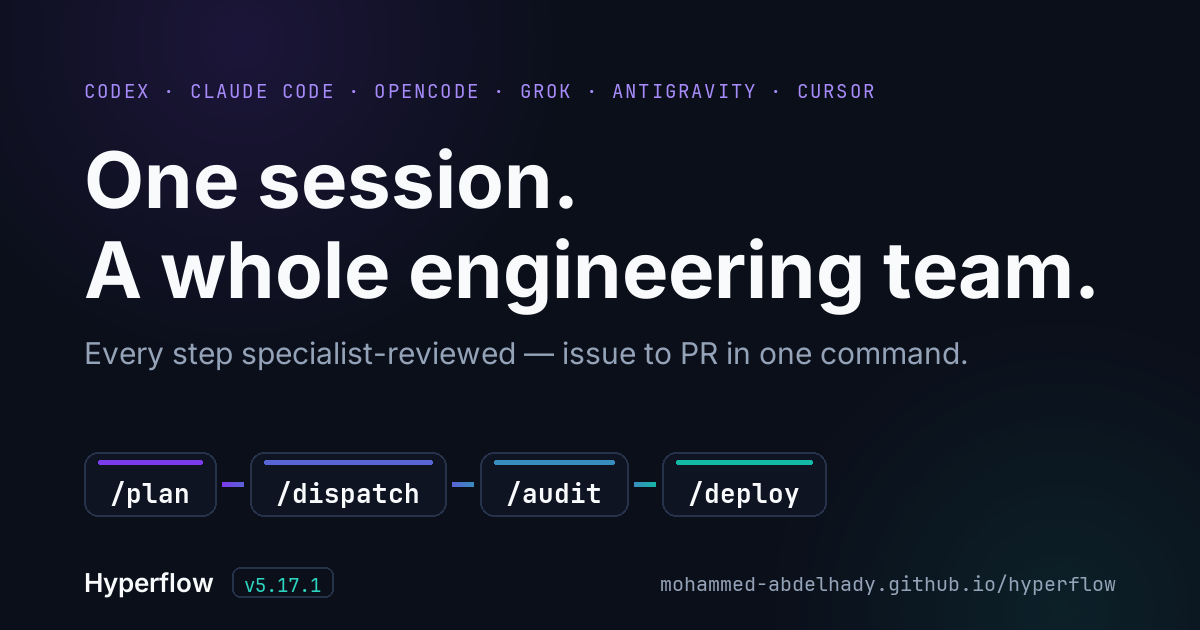
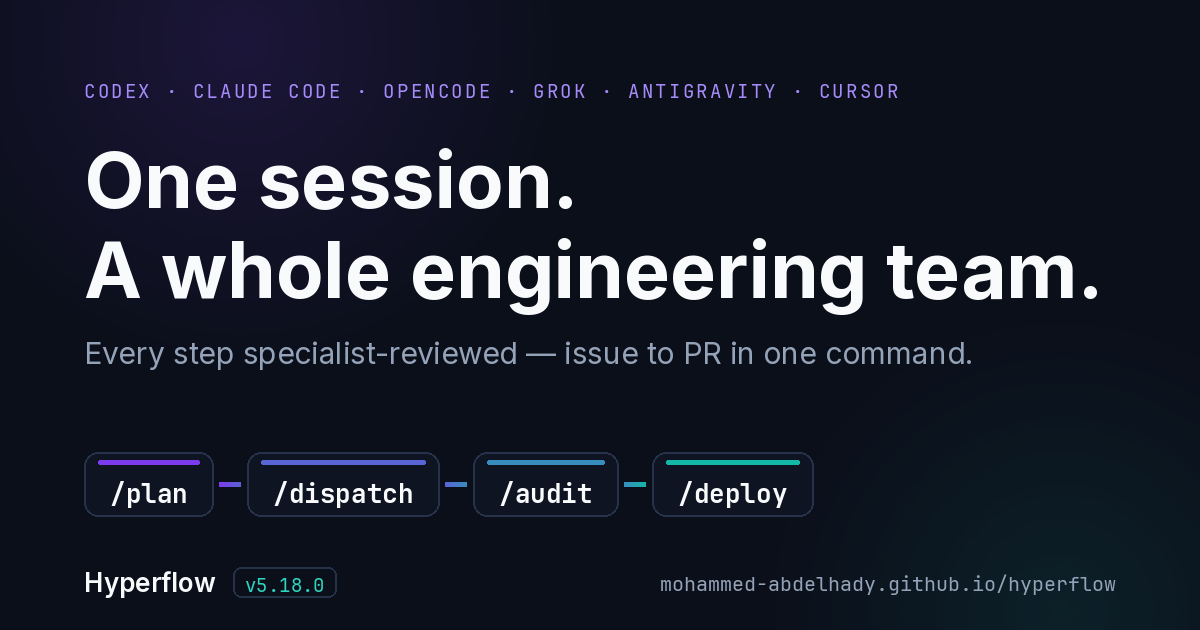
chore(release): v5.18.0

diff --git a/docs/index.html b/docs/index.html
@@ -45,7 +45,7 @@
         "name": "Hyperflow",
         "applicationCategory": "DeveloperApplication",
         "operatingSystem": "macOS, Linux",
-        "softwareVersion": "5.17.1",
+        "softwareVersion": "5.18.0",
         "description": "Rules, multi-session project memory, task templates, and a reviewed multi-agent chain for AI coding CLIs. Issue to PR when you need it. Claude Code, Codex CLI (preview; App pending), OpenCode, Grok, Antigravity, Cursor.",
         "url": "https://mohammed-abdelhady.github.io/hyperflow/",
         "downloadUrl": "https://github.com/Mohammed-Abdelhady/hyperflow",
@@ -527,7 +527,7 @@
     <div class="footer-inner">
       <div class="footer-left">
         <a href="#hero" class="footer-wordmark">Hyperflow</a>
-        <span class="footer-meta"><span class="footer-version">v5.17.1</span> · MIT · © 2026 Mohammed Abdelhady</span>
+        <span class="footer-meta"><span class="footer-version">v5.18.0</span> · MIT · © 2026 Mohammed Abdelhady</span>
       </div>
       <ul class="footer-links" role="list">
         <li><a href="installation.html">Installation</a></li>

diff --git a/docs/installation.html b/docs/installation.html
@@ -640,7 +640,7 @@
     <div class="footer-inner">
       <div class="footer-left">
         <a href="index.html" class="footer-wordmark">Hyperflow</a>
-        <span class="footer-meta"><span class="footer-version">v5.17.1</span> · MIT License</span>
+        <span class="footer-meta"><span class="footer-version">v5.18.0</span> · MIT License</span>
       </div>
       <ul class="footer-links" role="list">
         <li><a href="orchestration.html">Orchestration</a></li>

diff --git a/docs/orchestration.html b/docs/orchestration.html
@@ -777,7 +777,7 @@
     <div class="footer-inner">
       <div class="footer-left">
         <a href="index.html" class="footer-wordmark">Hyperflow</a>
-        <span class="footer-meta"><span class="footer-version">v5.17.1</span> · MIT License</span>
+        <span class="footer-meta"><span class="footer-version">v5.18.0</span> · MIT License</span>
       </div>
       <ul class="footer-links" role="list">
         <li><a href="installation.html">Installation</a></li>

diff --git a/docs/404.html b/docs/404.html
@@ -75,7 +75,7 @@
     <div class="footer-inner">
       <div class="footer-left">
         <a href="index.html" class="footer-wordmark">Hyperflow</a>
-        <span class="footer-meta"><span class="footer-version">v5.17.1</span> · MIT License</span>
+        <span class="footer-meta"><span class="footer-version">v5.18.0</span> · MIT License</span>
       </div>
       <ul class="footer-links" role="list">
         <li><a href="installation.html">Installation</a></li>

diff --git a/CHANGELOG.md b/CHANGELOG.md
@@ -7,6 +7,12 @@ and this project adheres to [Semantic Versioning](https://semver.org/spec/v2.0.0
 
 ## [Unreleased]
 
+## [5.18.0] — 2026-07-20
+
+### Changed
+- Golden path, progressive disclosure, proof pack, and roadmap
+
+
 ## [5.17.1] — 2026-07-19
 
 ### Fixed
@@ -1435,7 +1441,8 @@ and this project adheres to [Semantic Versioning](https://semver.org/spec/v2.0.0
 - Claude Code marketplace plugin
 - Agent labels and usage summary on task completion
 
-[Unreleased]: https://github.com/Mohammed-Abdelhady/hyperflow/compare/v5.17.1...HEAD
+[Unreleased]: https://github.com/Mohammed-Abdelhady/hyperflow/compare/v5.18.0...HEAD
+[5.18.0]: https://github.com/Mohammed-Abdelhady/hyperflow/compare/v5.17.1...v5.18.0
 [5.17.1]: https://github.com/Mohammed-Abdelhady/hyperflow/compare/v5.17.0...v5.17.1
 [5.17.0]: https://github.com/Mohammed-Abdelhady/hyperflow/compare/v5.16.1...v5.17.0
 [5.16.1]: https://github.com/Mohammed-Abdelhady/hyperflow/compare/v5.16.0...v5.16.1

diff --git a/CLAUDE.md b/CLAUDE.md
@@ -72,7 +72,7 @@ The `README.md` is the project's primary discovery surface — keep it in sync w
 
 When a change is README-relevant, prefer landing the README update in the same commit (or immediately preceding commit) as the feature itself — never as a follow-up after the tag.
 
-<!-- hyperflow:doctrine:start version=5.17.1 generated=2026-07-18T22:40:10Z body-sha=9fa520ea12c6 source=https://github.com/Mohammed-Abdelhady/hyperflow -->
+<!-- hyperflow:doctrine:start version=5.18.0 generated=2026-07-20T21:16:06Z body-sha=9fa520ea12c6 source=https://github.com/Mohammed-Abdelhady/hyperflow -->
 
 # Hyperflow Doctrine (Portable Subset)
 

diff --git a/README.md b/README.md
@@ -16,7 +16,7 @@
 </p>
 
 <p align="center">
-  <img src="https://img.shields.io/badge/version-v5.17.1-blueviolet?style=flat-square" alt="version v5.17.1" />
+  <img src="https://img.shields.io/badge/version-v5.18.0-blueviolet?style=flat-square" alt="version v5.18.0" />
   &nbsp;
   <img src="https://img.shields.io/github/actions/workflow/status/Mohammed-Abdelhady/hyperflow/plugin-validation.yml?style=flat-square&label=validation" alt="plugin validation status" />
   &nbsp;
